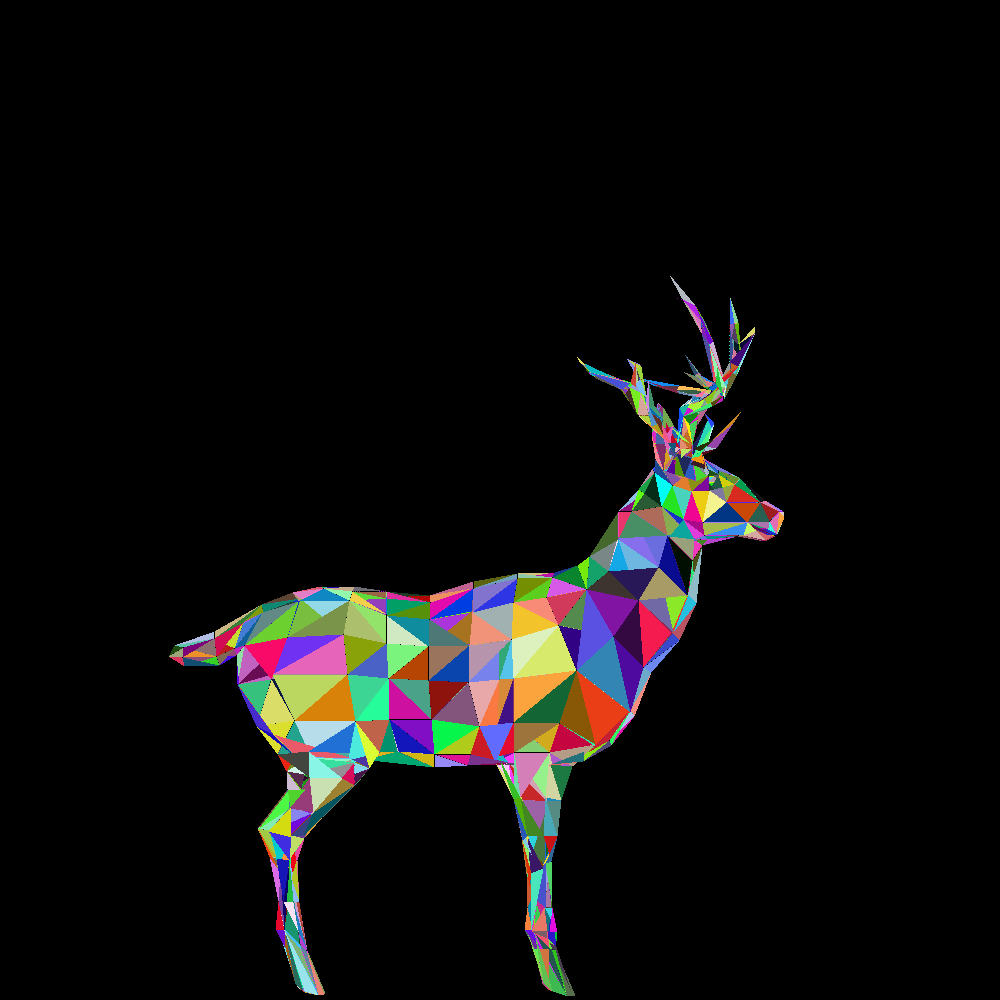
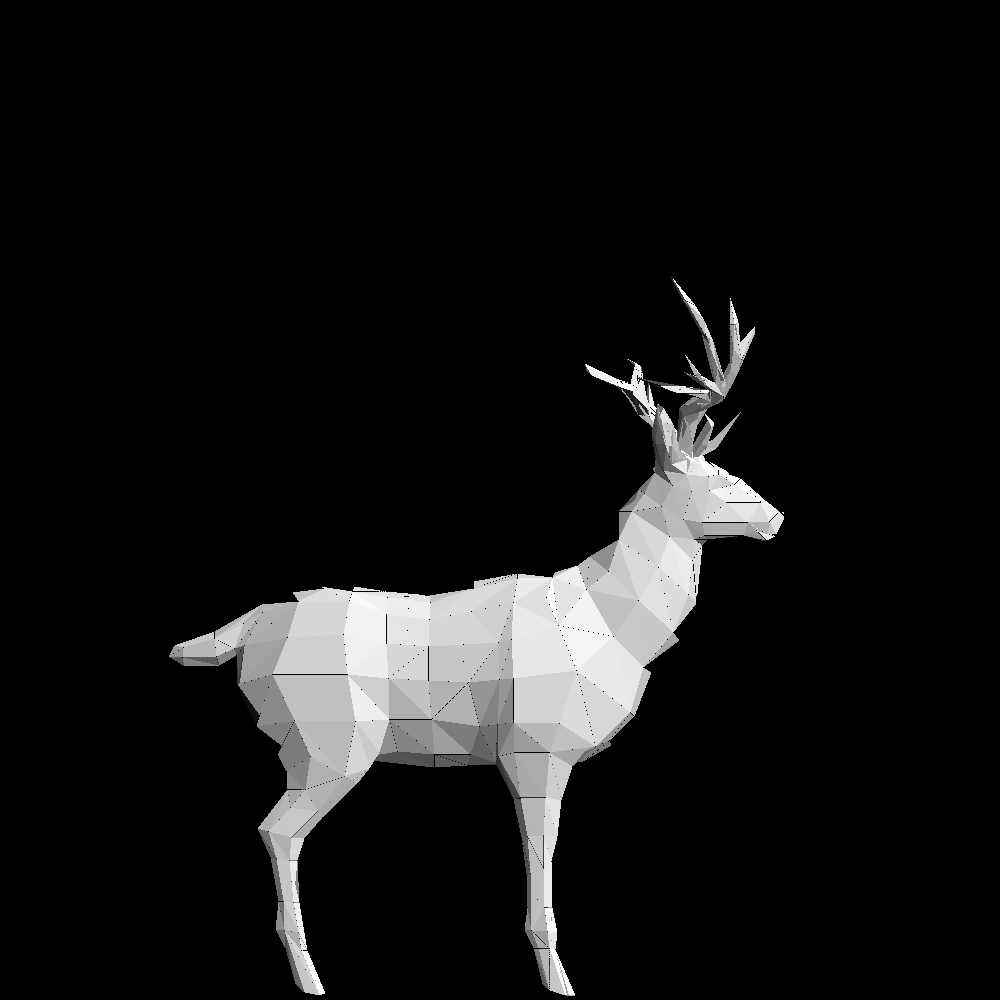
Lab.4 Zad.2 Zad.3

Changed region(s): [[0.155, 0.279, 0.806, 1.0]]

diff --git a/src/main/java/CGlab/Renderer.java b/src/main/java/CGlab/Renderer.java
@@ -18,6 +18,7 @@ public class Renderer {
     public int w = 200;
     private String filename;
     private LineAlgo lineAlgo = LineAlgo.NAIVE;
+    private float [][] zBuffer;
 
     public int getWidth() {
         return w;
@@ -29,11 +30,23 @@ public class Renderer {
     public Renderer(String filename,Integer width,Integer height,String method) {
         h = height;
         w = width;
+        zBuffer  = new float[h][w];
         render = new BufferedImage(width, height, BufferedImage.TYPE_INT_ARGB);
         this.filename = filename;
     }
 
     public Vec3f barycentric(Vec2f A, Vec2f B, Vec2f C, Vec2f P) {
+        Vec3f v1 = new Vec3f((B.x - A.x), (C.x - A.x), (A.x - P.x));
+        Vec3f v2 = new Vec3f((B.y - A.y), (C.y - A.y), (A.y - P.y));
+        Vec3f cross = crossProduct(v1, v2);
+        Vec2f uv = new Vec2f(cross.x / cross.z, cross.y / cross.z);
+
+        Vec3f barycentric = new Vec3f(uv.x, uv.y, 1 - uv.x - uv.y);
+
+        return barycentric;
+    }
+
+    public Vec3f barycentric(Vec3i A, Vec3i B, Vec3i C, Vec2i P) {
         Vec3f v1 = new Vec3f((B.x - A.x), (C.x - A.x), (A.x - P.x));
         Vec3f v2 = new Vec3f((B.y - A.y), (C.y - A.y), (A.y - P.y));
         Vec3f cross = crossProduct(v1, v2);
@@ -72,6 +85,34 @@ public class Renderer {
         }
     }
 
+    public void drawTriangle(Vec3i A, Vec3i B, Vec3i C, Color color) {
+        Integer[] xs = {A.x, B.x, C.x};
+        Integer[] ys = {A.y, B.y, C.y};
+        int minx = Collections.min(Arrays.asList(xs));
+        int maxx =  Collections.max(Arrays.asList(xs));
+        int miny = Collections.min(Arrays.asList(ys));
+        int maxy =  Collections.max(Arrays.asList(ys));
+
+        for (int i = minx; i <= maxx; i++) {
+            for (int j = miny; j <= maxy; j++) {
+                Vec2i P = new Vec2i(i,j);
+
+                float  z =  A.z * (1 - barycentric(A, B, C, P).z) + B.z * barycentric(A, B, C, P).z ;
+                System.out.println(A.z + " "  + (1 - barycentric(A, B, C, P).z));
+                //policz wspołrzędną z dla punktu jako interpolację
+                //współrzędnych z wierzchołków ABC z wspórzędnymi barycentrycznymi
+
+                if ((barycentric(A, B, C, P).x > 0 && barycentric(A, B, C, P).x < 1 && barycentric(A, B, C, P).y < 1 && barycentric(A, B, C, P).y > 0 && barycentric(A, B, C, P).z > 0 && barycentric(A, B, C, P).z < 1)) {
+                    if (zBuffer[i][j] <= z){
+                        drawPoint(i, j, color);
+                        zBuffer[i][j] = z;
+                    }
+
+                }
+            }
+        }
+    }
+
     public void drawTriangle(Vec2f A, Vec2f B, Vec2f C, Color color) {
         Float[] xs = {A.x, B.x, C.x};
         Float[] ys = {A.y, B.y, C.y};
@@ -90,18 +131,11 @@ public class Renderer {
         }
     }
 
-    private Vec3f crossProduct(Vec3f w1,Vec3f w2){
+    public Vec3f crossProduct(Vec3f w1,Vec3f w2){
         float x = w1.y * w2.z - w1.z * w2.y;
         float y = w1.z * w2.x - w1.x * w2.z;
         float z = w1.x * w2.y - w1.y * w2.x;
         return new Vec3f(x, y, z);
-    }
-
-    private Vec3i crossProduct(Vec3i w1, Vec3i w2) {
-        Integer x = w1.y * w2.z - w1.z * w2.y;
-        Integer y = w1.z * w2.x - w1.x * w2.z;
-        Integer z = w1.x * w2.y - w1.y * w2.x;
-        return new Vec3i(x, y, z);
     }
 
     public void drawPoint(int x, int y,Color color) {

diff --git a/src/main/java/CGlab/FlatShadingRenderer.java b/src/main/java/CGlab/FlatShadingRenderer.java
@@ -1,0 +1,43 @@
+package CGlab;
+
+import static java.lang.Math.cos;
+import static java.lang.Math.sqrt;
+
+public class FlatShadingRenderer extends RandomColorRenderer{
+
+    public FlatShadingRenderer(String filename, Integer width, Integer height, String method) {
+        super(filename,width,height,method);
+    }
+
+    public float cosBetweenVectors(Vec3f A, Vec3f B){
+        float dotproduct = (A.x * B.x) + (A.y * B.y) + (A.z * B.z);
+        float v1Length = (float) sqrt(A.x * A.x + A.y * A.y + A.z * A.z);
+        float v2Length = (float) sqrt(B.x * B.x + B.y * B.y + B.z * B.z);
+        return  dotproduct / (v1Length * v2Length);
+    }
+
+    public Vec3f Normal(Vec3f A, Vec3f B, Vec3f C) {
+        Vec3f v1 = new Vec3f((B.x - A.x), (B.y - A.y),(B.z - A.z));
+        Vec3f v2 = new Vec3f((C.x - A.x), (C.y - A.y),(C.z - A.z));
+        Vec3f cross = crossProduct(v1, v2);
+        return cross;
+    }
+
+    void render(Model model) {
+
+        for (Vec3i face : model.getFaceList()) {
+            Vec3f[] screen_coords3 = new Vec3f[3];
+            Vec3i[] screen_coords = new Vec3i[3];
+            for (int j=0; j<3; j++) {
+                Vec3f world_coord = model.getVertex(face.get(j));
+                screen_coords3[j] = world_coord;
+                screen_coords[j] = new Vec3i((int)((world_coord.x() + 1.0) * this.getWidth() / 2.0), (int)((world_coord.y() + 1.0) * this.getHeight() / 2.0) - this.getHeight() / 2, (int)((world_coord.z() + 1.0) * this.getHeight() / 2.0) - this.getHeight() / 2 );
+            }
+
+            Float cosBetweenVectors = cosBetweenVectors( new Vec3f( 50,50,50), Normal( screen_coords3[0],screen_coords3[1],screen_coords3[2])) *128 + 128;
+            Integer cosBetweenVectorsInt = Math.round(cosBetweenVectors);
+            drawTriangle(screen_coords[0], screen_coords[1], screen_coords[2],new Color(cosBetweenVectorsInt,cosBetweenVectorsInt,cosBetweenVectorsInt));
+        }
+    }
+
+}

diff --git a/src/main/java/CGlab/Vec3i.java b/src/main/java/CGlab/Vec3i.java
@@ -1,5 +1,7 @@
 package CGlab;
 
+import static java.lang.Math.*;
+
 public class Vec3i {
     public int x;
     public int y;
@@ -23,6 +25,38 @@ public class Vec3i {
         }
     }
 
+    /*
+    static int lengthSquare(Vec3i p1, Vec3i p2)
+    {
+        int xDiff = p1.x- p2.x;
+        int yDiff = p1.y- p2.y;
+        return xDiff*xDiff + yDiff*yDiff;
+    }
+    static Vec3f getAngle(Vec3i A, Vec3i B,
+                          Vec3i C)
+    {
+
+        int a2 = lengthSquare(B,C);
+        int b2 = lengthSquare(A,C);
+        int c2 = lengthSquare(A,B);
+
+        float a = (float)sqrt(a2);
+        float b = (float)sqrt(b2);
+        float c = (float)sqrt(c2);
+
+        float alpha = (float) acos((b2 + c2 - a2)/(2*b*c));
+        float betta = (float) acos((a2 + c2 - b2)/(2*a*c));
+        float gamma = (float) acos((a2 + b2 - c2)/(2*a*b));
+
+        alpha = (float) (alpha * 180 / PI);
+        betta = (float) (betta * 180 / PI);
+        gamma = (float) (gamma * 180 / PI);
+
+        return new Vec3f(alpha,betta,gamma);
+    }
+
+
+     */
     @Override
     public String toString() {
         return x + " " + y + " " + z;

diff --git a/src/main/java/CGlab/App.java b/src/main/java/CGlab/App.java
@@ -40,7 +40,7 @@ public class App {
 
 //        mainRenderer.drawTriangle(new Vec2f(10,10),new Vec2f(10,30), new Vec2f(40,10), new Color(255,0,0));
 
-        RandomColorRenderer mainRenderer = new RandomColorRenderer("img/image.png", 1000, 1000,"NAIVE");
+        FlatShadingRenderer mainRenderer = new FlatShadingRenderer("img/image.png", 1000, 1000,"NAIVE");
         Model jelen = new Model();
         jelen.readOBJ("deer.obj");
         mainRenderer.clear();
